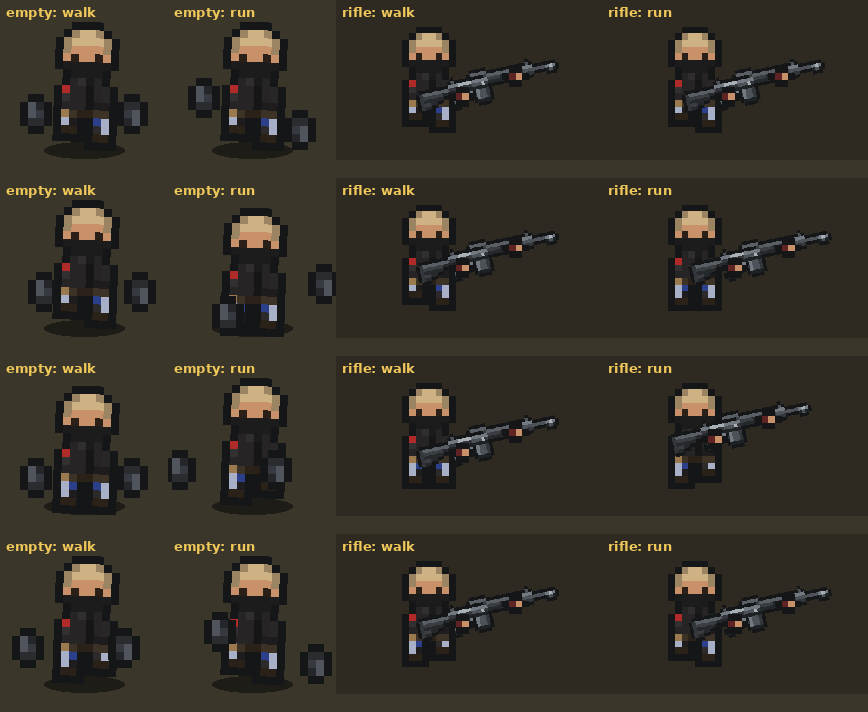
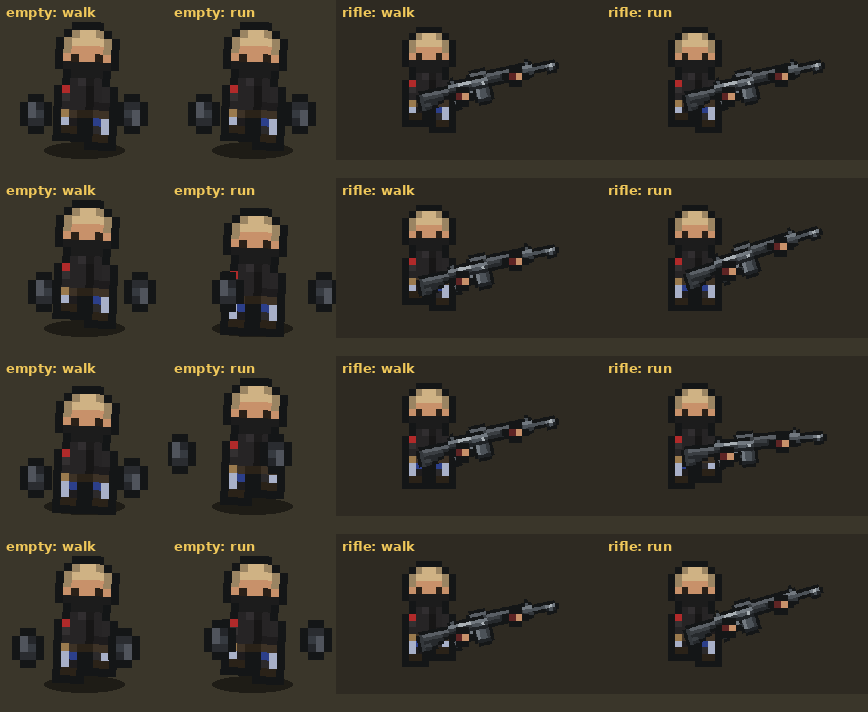
Hand swing: true pendulum for empty hands, rifle turns about the torso at a run
Claude-Session: https://claude.ai/code/session_01Jpd5tdDJTR7BVueAYV1KDM

diff --git a/Assets/Scripts/GameCore/HeldWeapon.cs b/Assets/Scripts/GameCore/HeldWeapon.cs
@@ -412,9 +412,9 @@ namespace GameCore
         {
             float a = Mathf.Sin(phase) * swing;
             float dx = Mathf.Round(1.2f * a);                       // Yan: "pointing down and swinging a little to the sides" - no bob
-            float pump = Mathf.Round(Mathf.Cos(phase) * 2.5f * run);   // 2026-11-23: at a run the arms pump up and down the body, and swing wider
-            dx = Mathf.Round((1.2f + 2.2f * run) * a);
-            return (14f + dx, 11.5f + pump, 2f + dx, 11.5f - pump);
+            dx = Mathf.Round((1.2f + 2.2f * run) * a);                  // 2026-11-23: at a run the swing is wider, and a PENDULUM (Yan's drawing): lowest in the middle, lifted at both ends of the swing - an arc, never a loop
+            float lift = Mathf.Round(Mathf.Sin(phase) * Mathf.Sin(phase) * 2.2f * run);
+            return (14f + dx, 11.5f - lift, 2f + dx, 11.5f - lift);
         }
 
         /// <summary>Melee 3: the body's frame through a swing - gathered (half crouch) on the wind-up, a charge, a throw's lift and
@@ -1203,11 +1203,16 @@ namespace GameCore
             float k = Mathf.Max(Time.deltaTime, 0.0001f) * 6f; _walkK = Mathf.MoveTowards(_walkK, wk, k); _runK = Mathf.MoveTowards(_runK, rk, k);
             ShowCore(weapon, armor, unitPos, aimAt, visible, back, offhand);
             if (!LifeOn || !visible || weapon?.Db == null || JawHold || _walkK < 0.05f) return;
-            // walk: a 1 px bob on each step (Yan: good). Run (Yan: "the hands circle instead of moving in an arc"): a pendulum - fore and aft along the aim, lifted at both ends of the swing and lowest in the middle, so the path is an arc traced back and forth, not a loop
-            float step = Mathf.Sin(_phase2 * 2f) > 0.2f ? 1f : 0f, s1 = Mathf.Sin(_phase2), ca = Mathf.Cos(_angle * Mathf.Deg2Rad), sa = Mathf.Sin(_angle * Mathf.Deg2Rad);
-            float walkBob = Mathf.Round(step * _walkK) * (1f - _runK), swing = Mathf.Round(s1 * 2f * _runK), lift = Mathf.Round(s1 * s1 * 2f * _runK);
-            var d = Local(8f + ca * swing, 8f + sa * swing + walkBob + lift) - Local(8f, 8f);
-            foreach (var r in new[] { _gun, _gun2, _grip, _support, _mag, _barrels, _part2, _optic, _under, _magHd, _shell }) if (r != null && r.gameObject.activeSelf) r.transform.localPosition += d;
+            // walk: the 1 px bob on each step (Yan: good), unchanged. Run (Yan, with a drawing: "swinging in a circular motion instead of like a pendulum, the rifle just bobbing left and right instead of also swinging a bit"):
+            // the whole held assembly (gun, both hands, parts) turns about the torso like a pendulum: +-7 degrees at a full run, so the muzzle sweeps an arc and the hands follow it round the same pivot
+            float step = Mathf.Sin(_phase2 * 2f) > 0.2f ? 1f : 0f, walkBob = Mathf.Round(step * _walkK) * (1f - _runK);
+            float th = Mathf.Sin(_phase2) * 7f * _runK, c = Mathf.Cos(th * Mathf.Deg2Rad), sn = Mathf.Sin(th * Mathf.Deg2Rad);
+            Vector3 Swing(Vector3 p)                                                      // marker-local position -> where the pivot's turn puts it (counter-clockwise on screen for + degrees)
+            {
+                var pv = Local(8f, 9f); float vx = p.x - pv.x, vy = p.y - pv.y;
+                return new Vector3(pv.x + vx * c - vy * sn, pv.y + vx * sn + vy * c + (-walkBob / 16f), p.z);
+            }
+            foreach (var r in new[] { _gun, _gun2, _grip, _support, _mag, _barrels, _part2, _optic, _under, _magHd, _shell }) if (r != null && r.gameObject.activeSelf) { r.transform.localPosition = Swing(r.transform.localPosition); r.transform.localRotation = Quaternion.Euler(0f, 0f, r.transform.localEulerAngles.z + th); }
         }
         void ShowCore(Weapon weapon, ArmorDef armor, Vector3 unitPos, Vector3? aimAt, bool visible, bool back = false, Weapon offhand = null)
         {

diff --git a/Tools/render/hands_swing.py b/Tools/render/hands_swing.py
@@ -16,8 +16,8 @@ def glove():
     return img
 G = glove(); font = ImageFont.truetype("/usr/share/fonts/truetype/dejavu/DejaVuSans-Bold.ttf", 13)
 def free_hands(phase, swing, run):
-    a = math.sin(phase) * swing; pump = round(math.cos(phase) * 2.5 * run); dx = round((1.2 + 2.2 * run) * a)
-    return (14 + dx, 11.5 + pump, 2 + dx, 11.5 - pump)
+    a = math.sin(phase) * swing; dx = round((1.2 + 2.2 * run) * a); lift = round(math.sin(phase) ** 2 * 2.2 * run)     # lowest in the middle, lifted at both ends: an arc
+    return (14 + dx, 11.5 - lift, 2 + dx, 11.5 - lift)
 def frame(t, speed, armed, label):
     W = 16 * Z + 40; H = 16 * Z + 50; c = Image.new("RGBA", (W, H), BG); d = ImageDraw.Draw(c)
     phase = speed * t * 2 * math.pi / STRIDE; run = max(0.0, min(1.0, (speed - 3.4) / 1.0)); walk = 1.0
@@ -55,9 +55,10 @@ def rifle_col(t, speed, label):
     body = fr.resize((16 * ha.S, 16 * ha.S), Image.NEAREST)
     ang = math.radians(rest[2]) if False else 0.0                      # aimed right in this picture (the game's aim angle is the gun's own deg)
     step = 1.0 if math.sin(phase * 2) > 0.2 else 0.0; s1 = math.sin(phase)
-    walkbob = round(step * walk) * (1 - run); swing = round(s1 * 2 * run); lift = round(s1 * s1 * 2 * run)     # the code's numbers
-    dx = math.cos(ang) * swing; dy = -(math.sin(ang) * swing + walkbob + lift)                                     # (canvas y points down)
-    f = list(rest); f[0] += dx; f[1] += dy; f[3] += dx; f[4] += dy; f[5] += dx; f[6] += dy; f[7] = 1
+    walkbob = round(step * walk) * (1 - run); th = math.sin(phase) * 7.0 * run; cs_, sn_ = math.cos(math.radians(th)), math.sin(math.radians(th))
+    def sw(x, y):                                    # the code's Swing(): turn about the torso pivot (8, 9) (px, y down), + degrees = counter-clockwise on screen; the walk's 1 px bob on top
+        vx, vy = x - 8.0, y - 9.0; return 8.0 + vx * cs_ + vy * sn_, 9.0 - vx * sn_ + vy * cs_ + walkbob
+    f = list(rest); f[0], f[1] = sw(rest[0], rest[1]); f[3], f[4] = sw(rest[3], rest[4]); f[5], f[6] = sw(rest[5], rest[6]); f[2] = rest[2] + th; f[7] = 1
     c = ha.frame(a, f, body, gun, gl, None).convert("RGB"); c = c.resize((c.width * 2 // 3, c.height * 2 // 3), Image.NEAREST)
     d = ImageDraw.Draw(c); d.text((6, 4), label, font=font, fill=(240, 200, 90)); return c
 rows = [("empty: walk", 2.6), ("empty: run", 4.4)]

diff --git a/ArtSource/WORK_LOG.md b/ArtSource/WORK_LOG.md
@@ -7019,3 +7019,6 @@ Yan: the walk is good; running "makes the hands circle instead of moving in an a
 
 ### Batch 9cs (2026-11-23): hand swing preview corrected
 Yan thought the rifle "held up to his head": that was my preview's rough placement, not the game. `Tools/render/hands_swing.py` now draws the rifle columns with the game's real stance (HeldPoseMath.Frame via the heldframes dump, `held_anim.frame`): the gun in front of the body at hip height, with the walk bob / run arc offsets added. No game code changed in this step.
+
+### Batch 9ct (2026-11-23): hand swing as a true pendulum (Yan's drawing)
+Yan drew it: the empty hands at a run moved in a loop (blue = the arc he wants, orange = what he saw) and the rifle only bobbed left and right instead of also swinging. Empty hands: x swings, y is lifted by sin^2 (lowest in the middle, up at both ends): an arc traced back and forth, no loop (`HeldPoseMath.FreeHands`). Rifle: at a run the whole held assembly (gun, hands, parts) turns about the torso pivot (8, 9) by +-7 degrees (`HeldWeaponView.Show` wrapper, `Swing`), so the muzzle sweeps an arc and the hands follow it; the gun's own rotation turns with it. The walk is unchanged (the 1 px bob). Also fixed: my earlier run offset used the aim angle with the wrong y sign. Preview redrawn with the same math. Harness passes; not seen in Unity.
